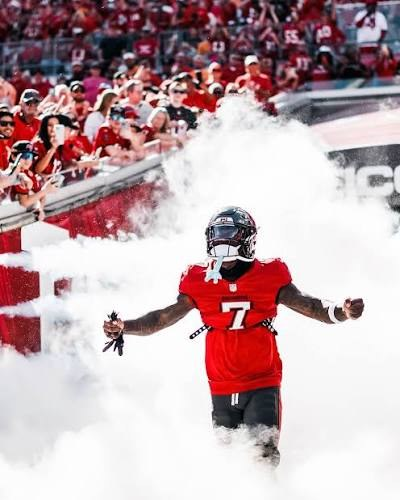
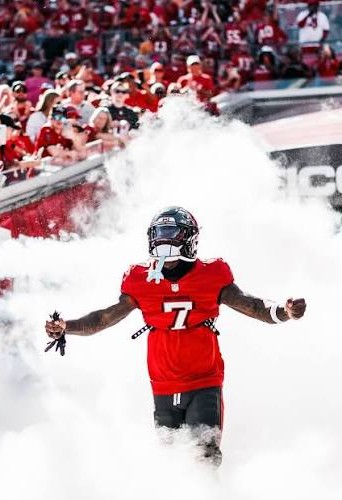
Irving trade article: reframe lead photo so he's centered
Claude-Session: https://claude.ai/code/session_014CdGKiszpZpRQUfMc61d1y

diff --git a/data/columns/2026-week-12-trade-irving.md b/data/columns/2026-week-12-trade-irving.md
@@ -7,7 +7,7 @@ week: 12
 date: 2026-11-26
 breaking: yes
 image: assets/columns/2026-week-12-trade-irving.jpg
-focus: 50% 30%
+focus: 50% 72%
 caption: Bucky Irving, now running for MR. FROBOT
 credit: 
 teaser: Sour Grapes send Bucky Irving to MR. FROBOT for $6 of 2027 auction cash. The Central leaders add a top-10 back for the bye race, and a team out of the race gets paid for a player headed to the auction anyway.
